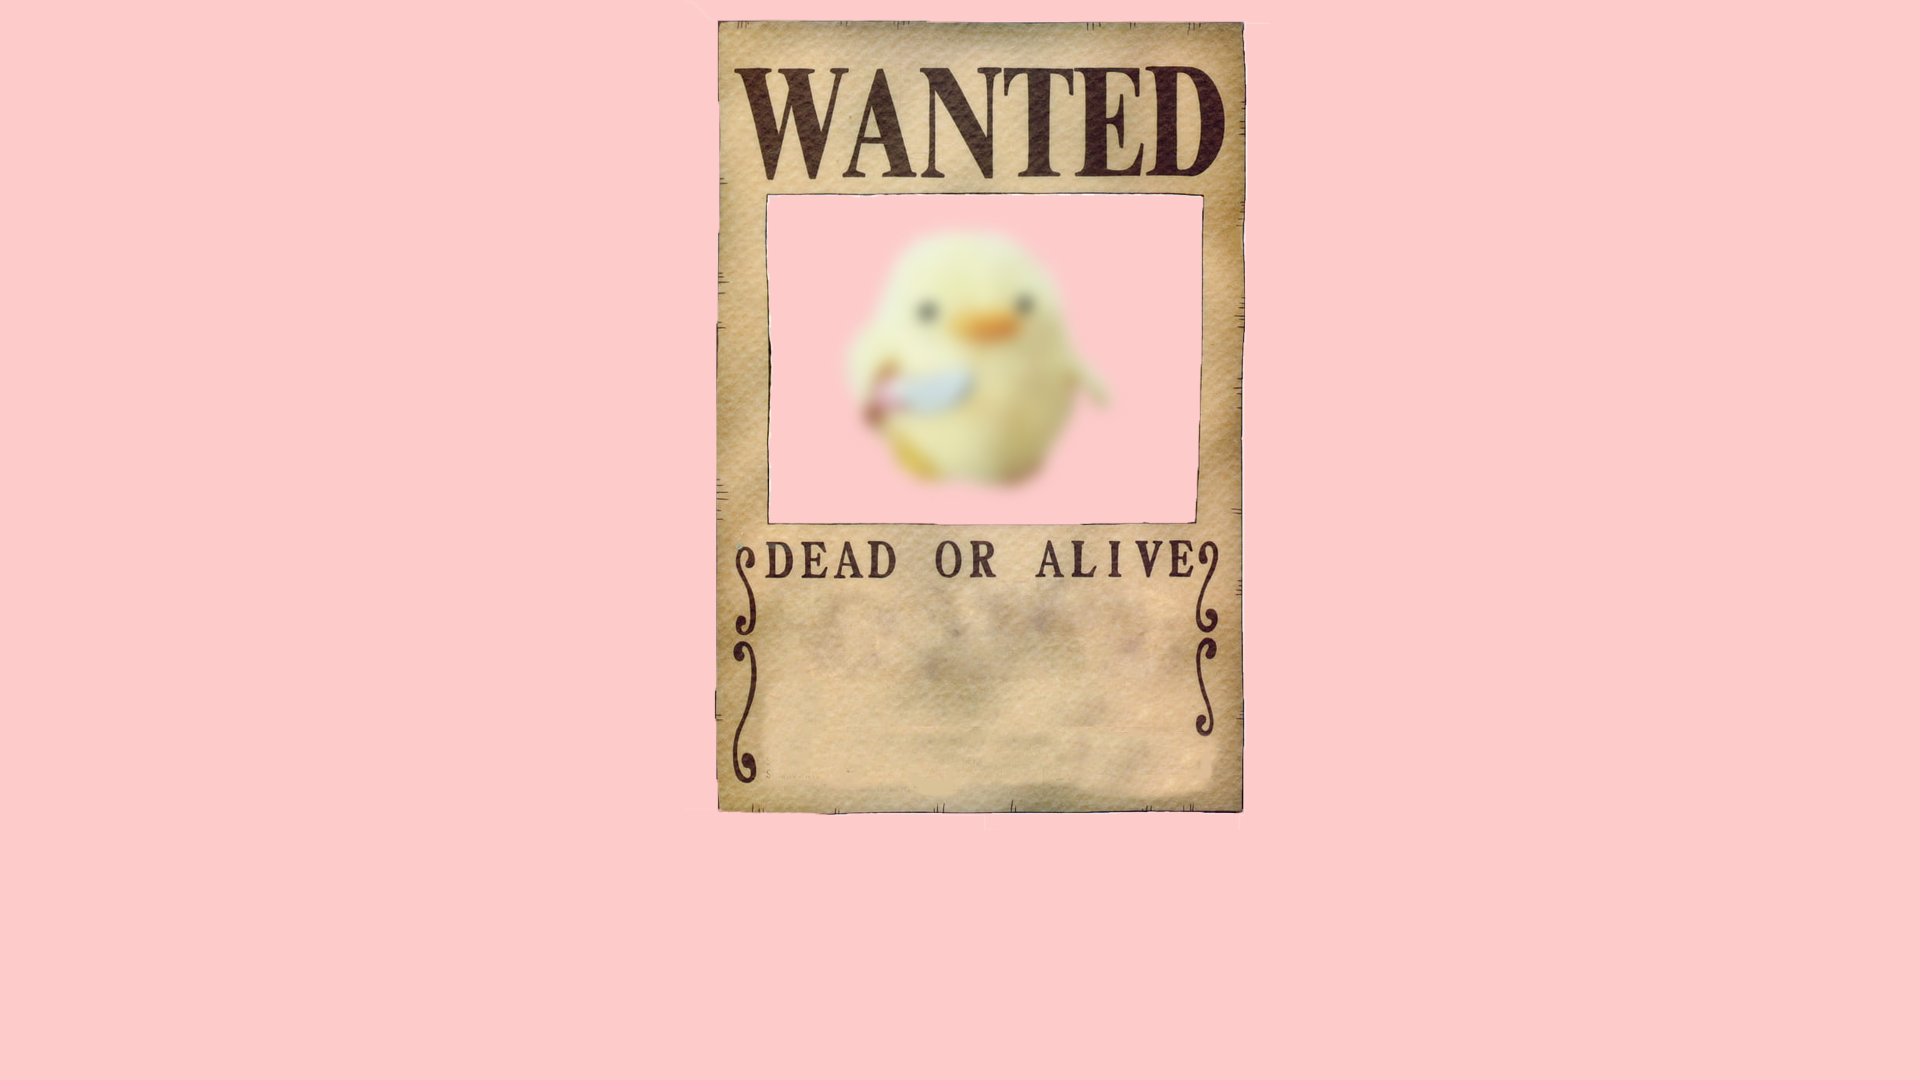
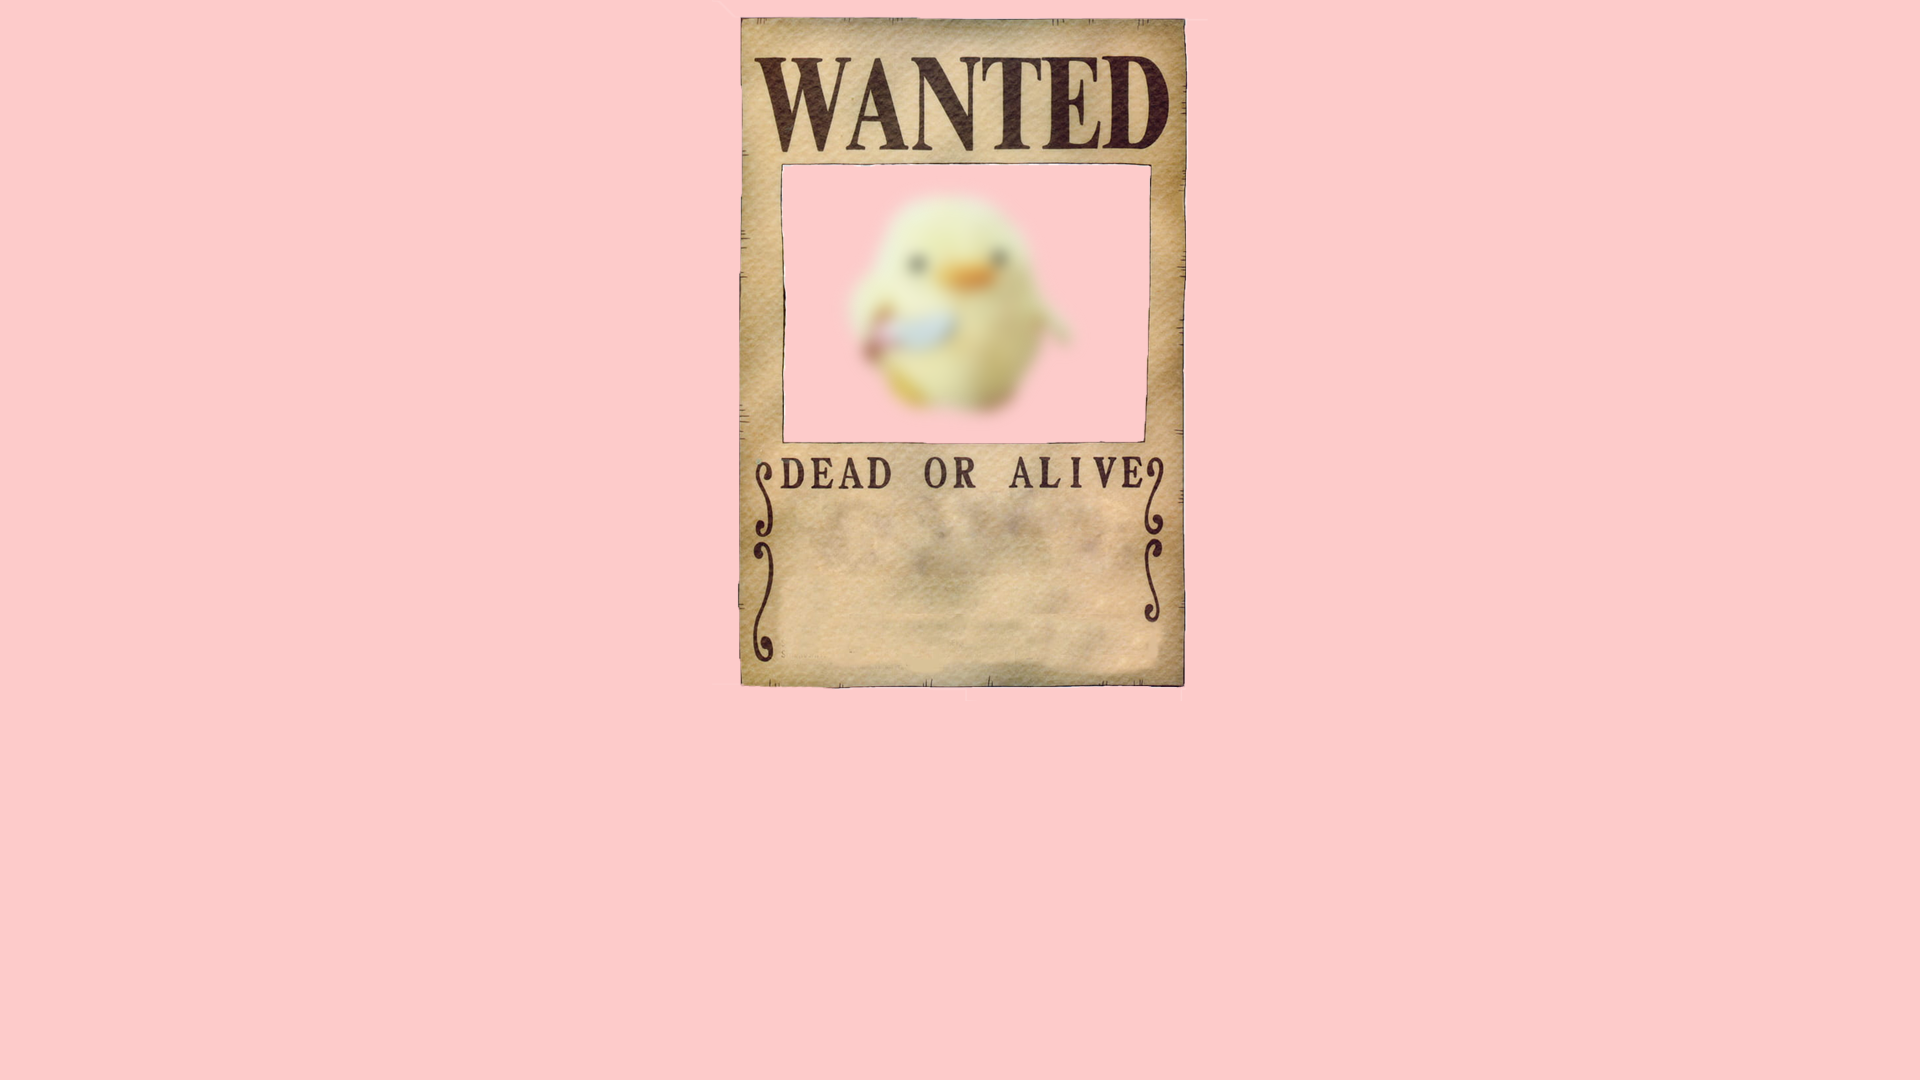
E1: Fixed win state to allow the user to restart

Changed region(s): [[0.375, 0.0, 0.6562, 0.7639]]

diff --git a/Exercises/Wheres-sausage-dog-new-game-plus/js/script.js b/Exercises/Wheres-sausage-dog-new-game-plus/js/script.js
@@ -30,8 +30,11 @@ let badSFX;
 let cuteFont;
 
 let startBg;
+let instructionsBg;
+let winBg;
 
-let state = `start`;
+let state = `win`;
+
 
 
 /**
@@ -54,6 +57,8 @@ function preload() {
 
   //load backgrounds
   startBg = loadImage("assets/images/Start-Bg.png");
+  instructionsBg = loadImage("assets/images/Instructions-Bg.png");
+  winBg = loadImage("assets/images/Win-Bg.png");
 
 }
 
@@ -114,13 +119,30 @@ function start(){
 }
 
 function instructions(){
-  background(0);
+  image(instructionsBg, width / 2, height / 2, windowWidth, windowHeight );
   push();
   textFont(cuteFont);
   textAlign(CENTER, CENTER);
-  textSize(70);
+  textSize(60);
   fill(255, 255, 255);
-  text(`Catch the scary duck`, width / 2, height / 2);
+  text(`You work in an amusement park and notice strange activity in the claw machine.`, width / 2, height - 300);
+  text(`You must find the scary looking plushy among all the cute ones before anyone see's it.`, width / 2, height - 250);
+  textSize(40);
+  text(`Press ENTER to continue`, width / 2, height - 150);
+  pop();
+}
+
+//function when you finally find the scary plushy
+function win(){
+  imageMode(CENTER, CENTER);
+  image(winBg, width / 2, height / 2, windowWidth, windowHeight );
+  push();
+  textFont(cuteFont);
+  textAlign(CENTER, CENTER);
+  textSize(60);
+  fill(255, 255, 255);
+  text(`YAY you cought the scary plushy!`, width / 2, height - 300);
+  text(`Press R to restart the game!`, width / 2, height - 200);
   pop();
 }
 
@@ -131,9 +153,6 @@ function game(){
 
 }
 
-function win(){
-  background(255);
-}
 
 function updatePlushies(){
   for (let i =0; i<plushies.length; i++){ //counting through all the animals in the array

diff --git a/Exercises/Wheres-sausage-dog-new-game-plus/js/Plushy.js b/Exercises/Wheres-sausage-dog-new-game-plus/js/Plushy.js
@@ -1,40 +1,47 @@
+/**
+ Plushy class
+This is a class to create the plushies for the game
+This class allows the plushies to get displayed and check for overlap with the mouse.
+*/
 class Plushy {
-constructor(x, y, image, sfx){
-  this.x =x;
-  this.y =y;
-  this.image = image;
-  this.angle = 0;
-  this.sfx = sfx;
-}
-
-update(){
-  this.display();
-}
-
-display(){
-  push();
-  imageMode(CENTER);
-  translate(this.x, this.y);
-  rotate(this.angle);
-  image(this.image, 0, 0);
-  pop();
-}
-
-overlap(x, y){
-    if(x > this.x - this.image.width/2 &&
-      x < this.x + this.image.width/2 &&
-      y > this.y - this.image.height/2 &&
-      y < this.y + this.image.height/2){
-        return true;
-      }
-      else{
-        return false;
-      }
+  constructor(x, y, image, sfx) {
+    //position
+    this.x = x;
+    this.y = y;
+    //image
+    this.image = image;
+    this.angle = 0;
+    this.sfx = sfx;
   }
 
-  mousePressed(){
-    if(this.overlap(mouseX, mouseY)){
+  update() {
+    this.display();
+  }
+
+  display() {
+    push();
+    imageMode(CENTER);
+    translate(this.x, this.y);
+    rotate(this.angle);
+    image(this.image, 0, 0);
+    pop();
+  }
+
+  overlap(x, y) {
+    if (x > this.x - this.image.width / 2 &&
+      x < this.x + this.image.width / 2 &&
+      y > this.y - this.image.height / 2 &&
+      y < this.y + this.image.height / 2) {
+      return true;
+    } else {
+      return false;
+    }
+  }
+
+  mousePressed() {
+    if (this.overlap(mouseX, mouseY)) {
       this.x += 10;
+      this.y += 10;
       this.sfx.play();
     }
   }
